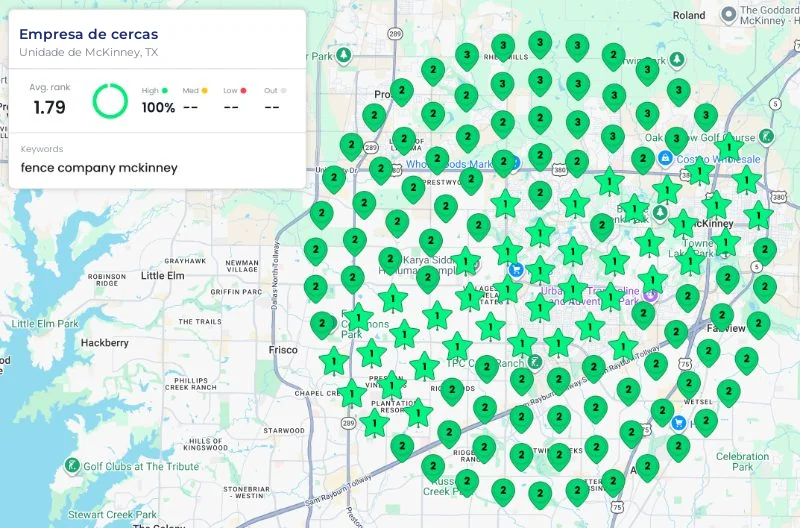
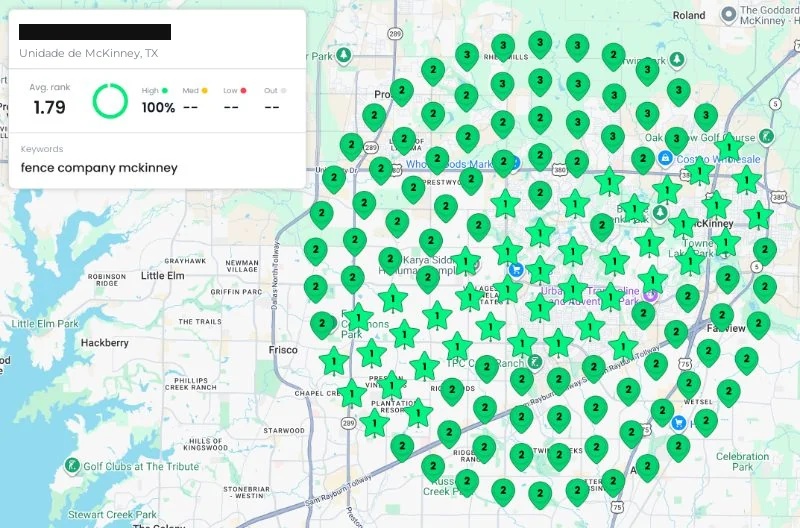
vsl: barra preta no nome dos prints e FAQ sem prazo de resultado

Changed region(s): [[0.0, 0.0303, 0.2188, 0.1212]]

diff --git a/vsl/index.html b/vsl/index.html
@@ -415,7 +415,8 @@ src="https://www.facebook.com/tr?id=937305316114895&ev=PageView&noscript=1" alt=
   </section>
 
   <!-- ═══════════════ PERGUNTAS FREQUENTES ═══════════════
-       Mesmas perguntas do FAQ da stryker-digital.com, na mesma ordem.
+       Mesmas perguntas do FAQ da stryker-digital.com, na mesma ordem, sem a
+       de prazo de resultado (tirada a pedido em 26/10/2026).
        Contrato mês a mês e "a partir de US$ 999/mês" confirmados pelo Kauan
        em 26/10/2026. -->
   <section class="faq">
@@ -424,10 +425,6 @@ src="https://www.facebook.com/tr?id=937305316114895&ev=PageView&noscript=1" alt=
       <details>
         <summary>O que a Trench Ops tem de diferente das outras agências que já me procuraram?<span class="pm" aria-hidden="true"></span></summary>
         <div class="ans"><p>Duas coisas. Primeiro, a gente só trabalha com empresário brasileiro dono de Home Service nos EUA: a conversa, o WhatsApp e os relatórios são em português, e o que o seu cliente vê (site, Perfil no Google e anúncios) sai em inglês. Segundo, a gente mede ligação, pedido de orçamento e serviço fechado, não curtida nem impressão.</p></div>
-      </details>
-      <details>
-        <summary>Em quanto tempo eu vejo resultado?<span class="pm" aria-hidden="true"></span></summary>
-        <div class="ans"><p>O Perfil no Google ajustado e o site começam a captar a procura que já existe logo que entram no ar, e os anúncios no Google e na Meta podem trazer pedidos já nas primeiras semanas. A subida no Google Maps é mais lenta: a primeira revisão dos números com você é em 90 dias, e o movimento forte costuma aparecer entre o 4º e o 6º mês, dependendo da concorrência na sua cidade. Quem promete top 3 no Maps em 30 dias está mentindo ou atende numa cidade sem concorrência.</p></div>
       </details>
       <details>
         <summary>Preciso assinar contrato longo?<span class="pm" aria-hidden="true"></span></summary>
